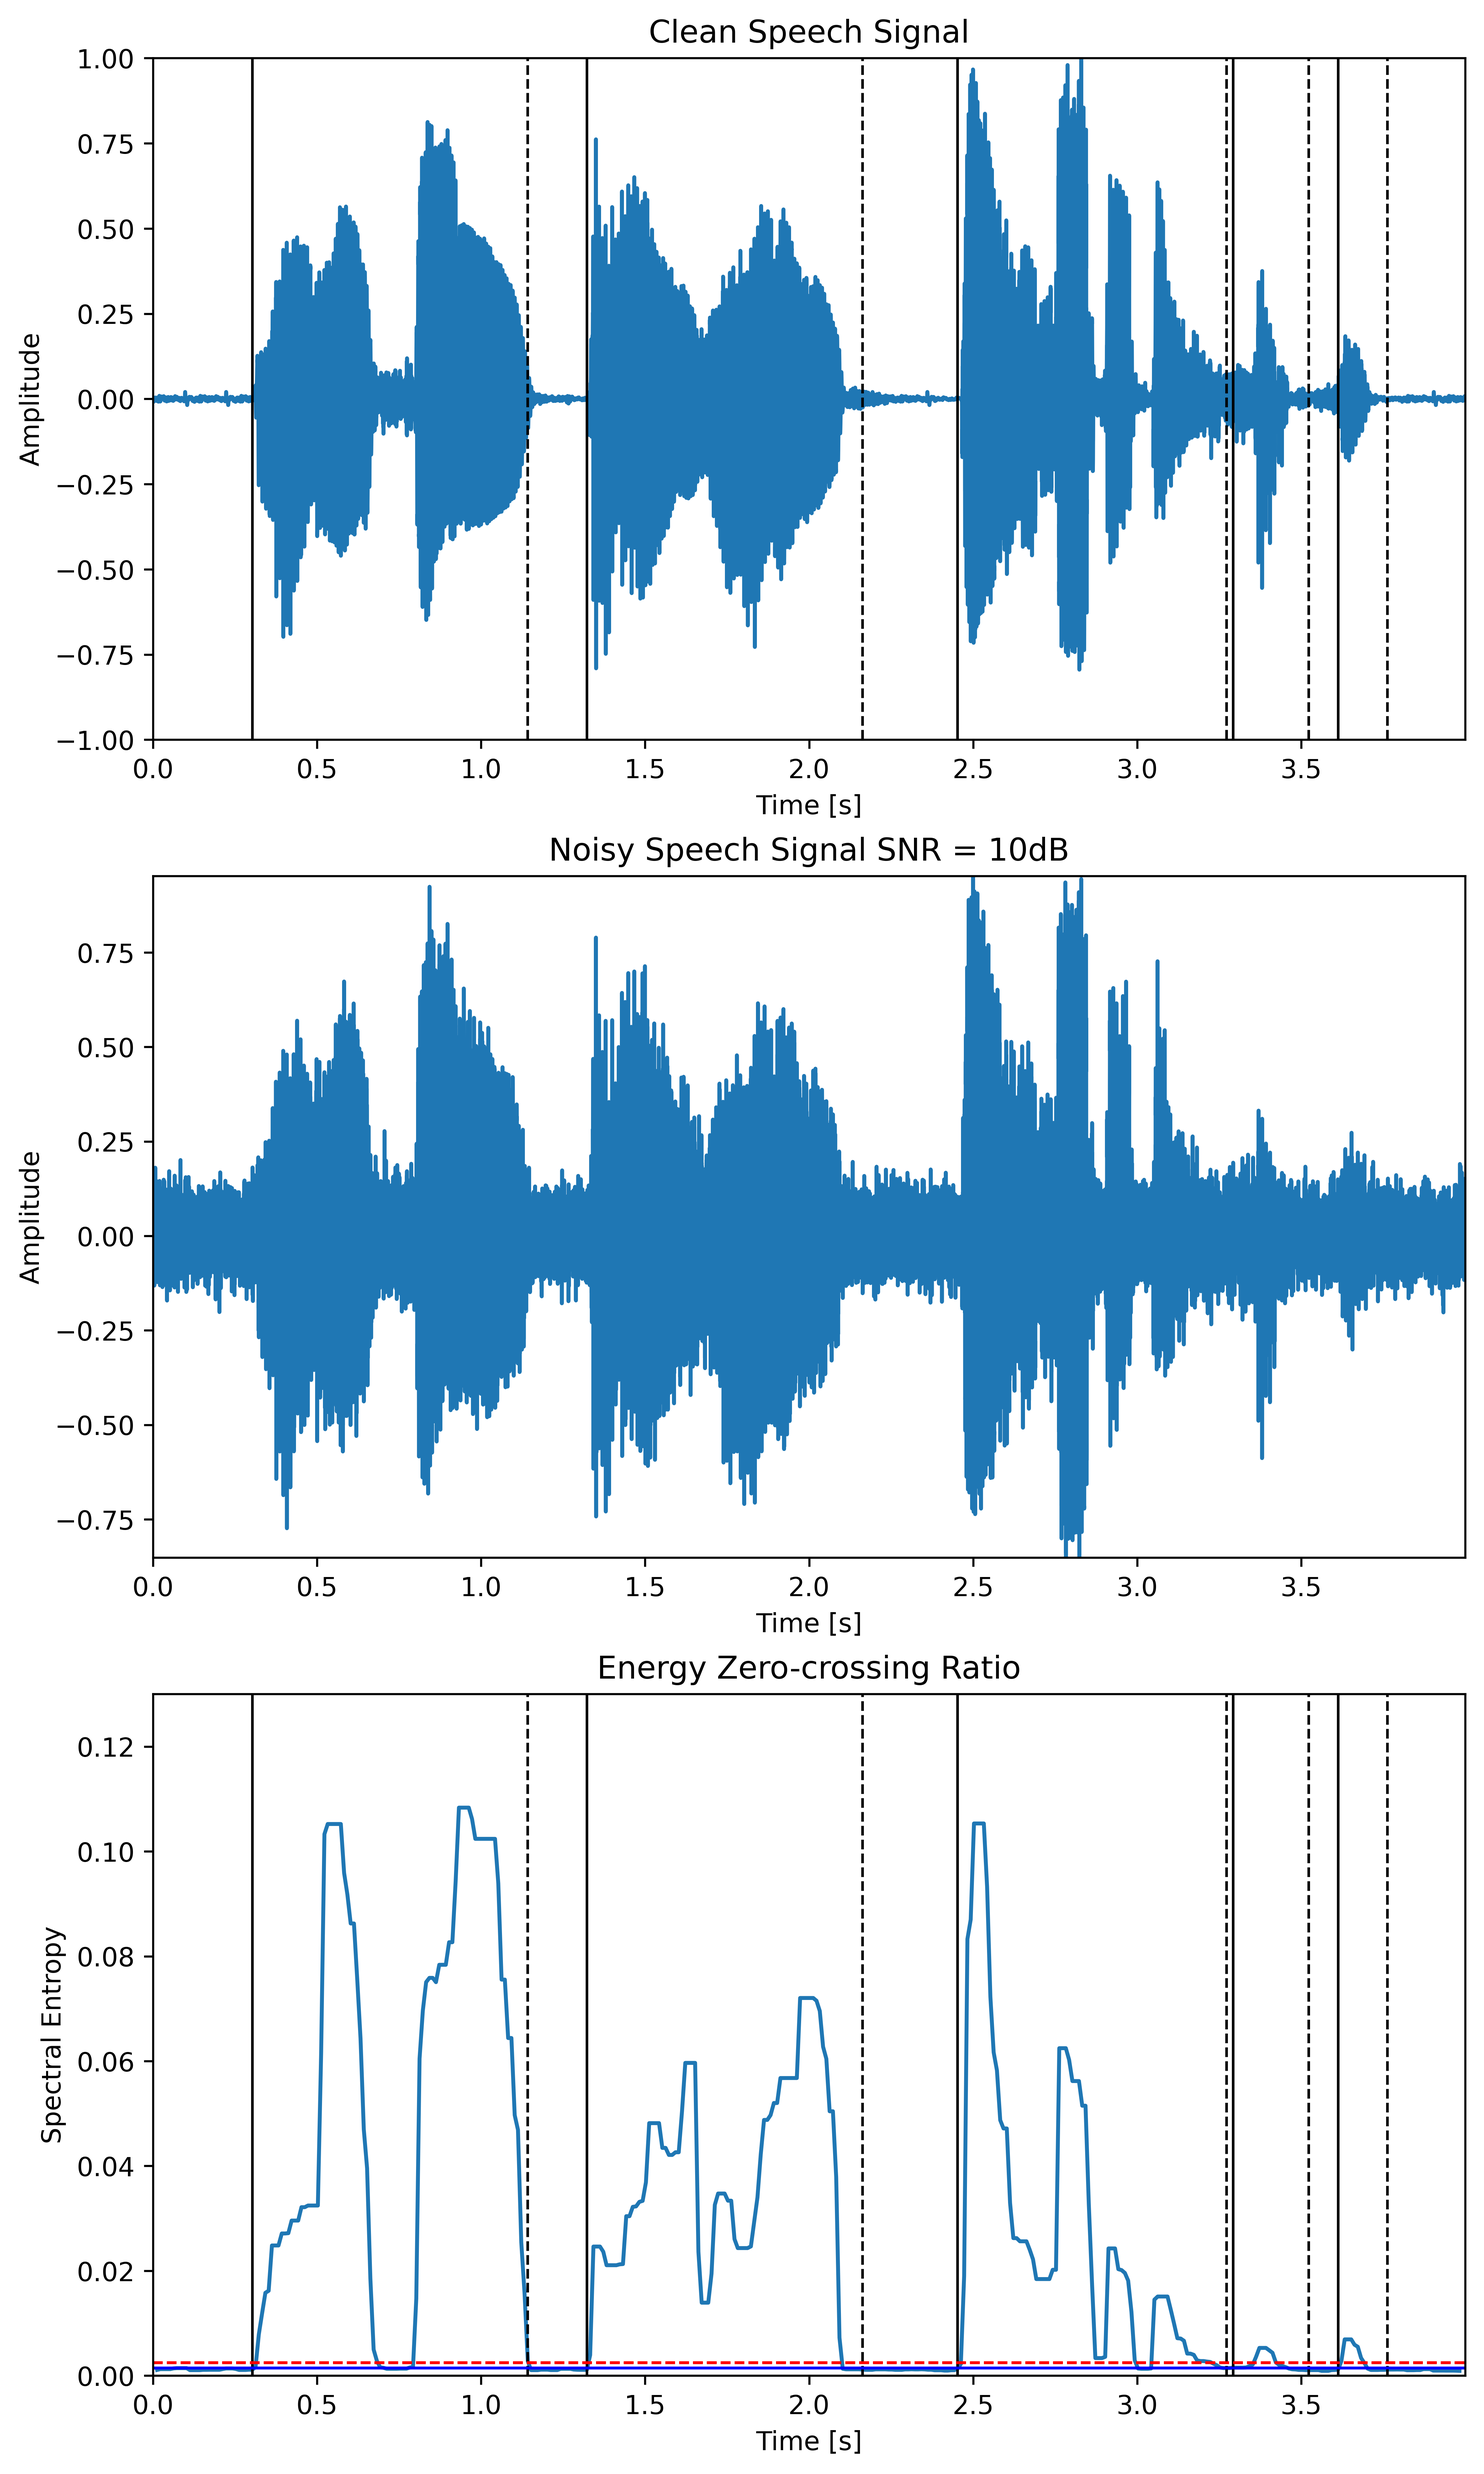
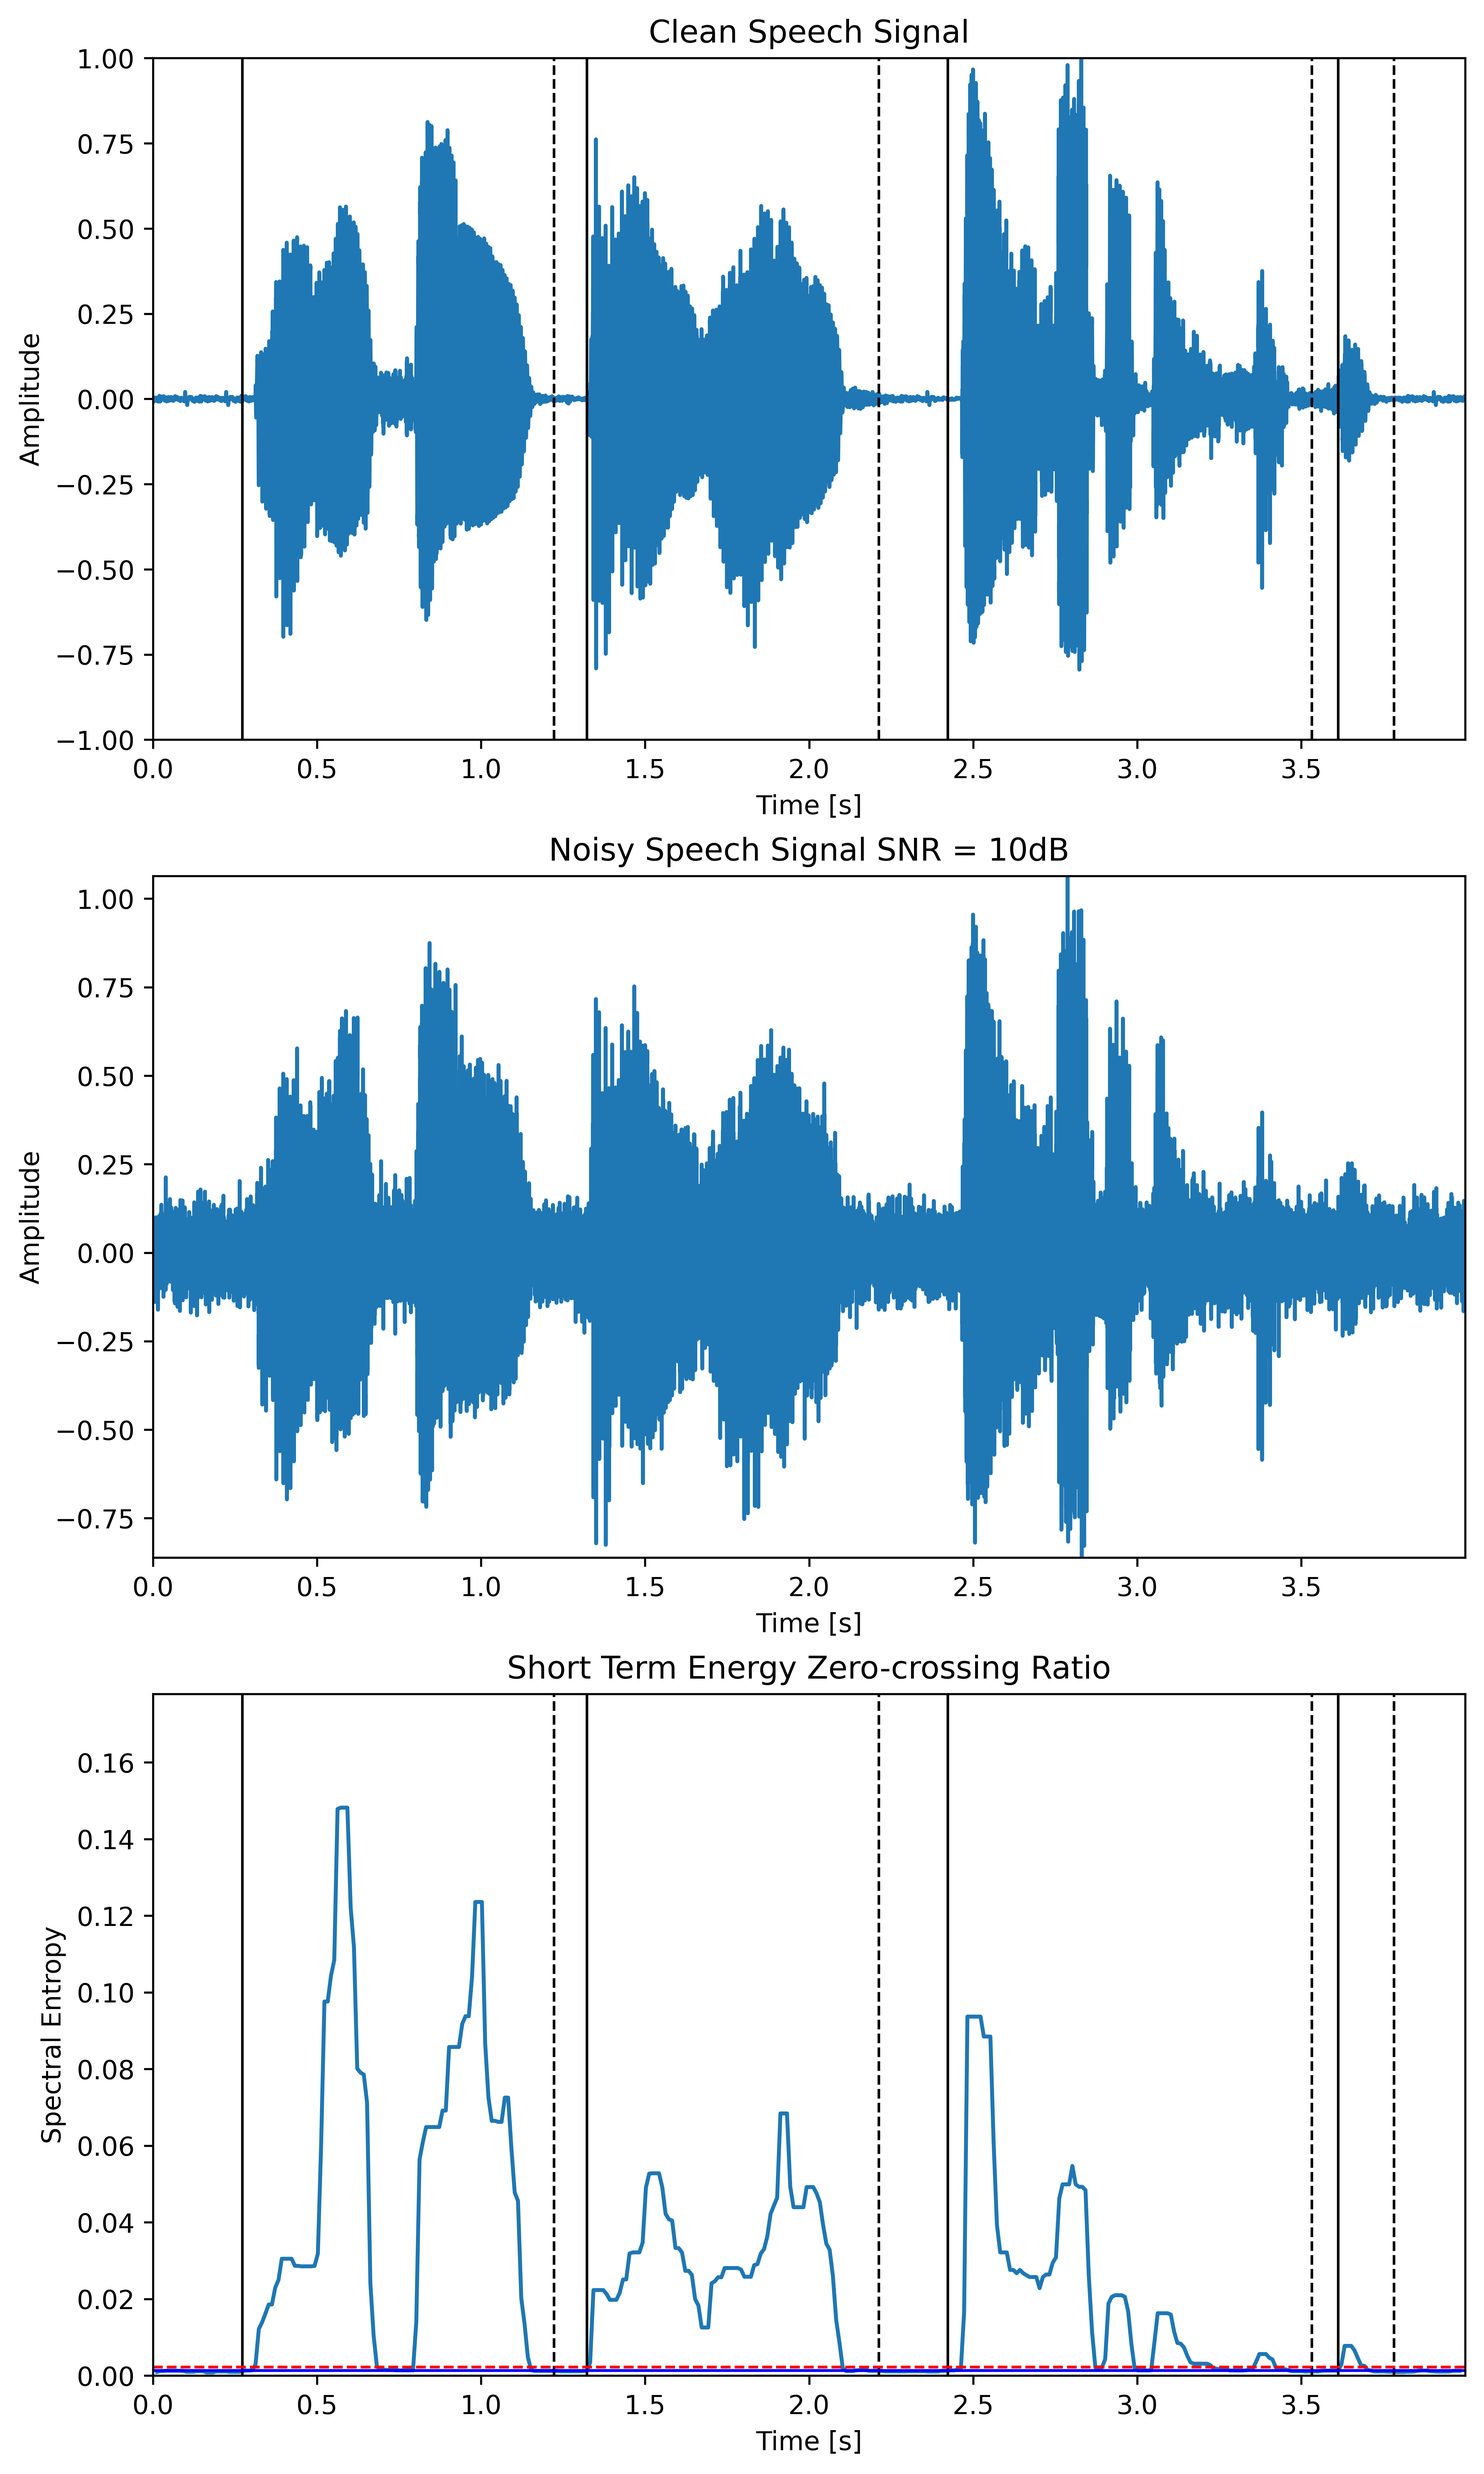
VAD(energy zero-crossing ratio)

diff --git a/Chapter6_EndpointDetection/pr6_7_1.py b/Chapter6_EndpointDetection/pr6_7_1.py
@@ -67,8 +67,8 @@ if __name__ == '__main__':
 	plt.plot(frameTime, Ecrm)
 	plt.axis([0, np.max(time), 0, 1.2 * np.max(Ecrm)])
 	plt.xlabel('Time [s]')
-	plt.ylabel('Spectral Entropy')
-	plt.title('Energy Zero-crossing Ratio')
+	plt.ylabel('Energy Zero-crossing Ratio')
+	plt.title('Short Term Energy Zero-crossing Ratio')
 	for k in range(vsl):
 		nx1 = voiceseg['begin'][k]
 		nx2 = voiceseg['end'][k]
